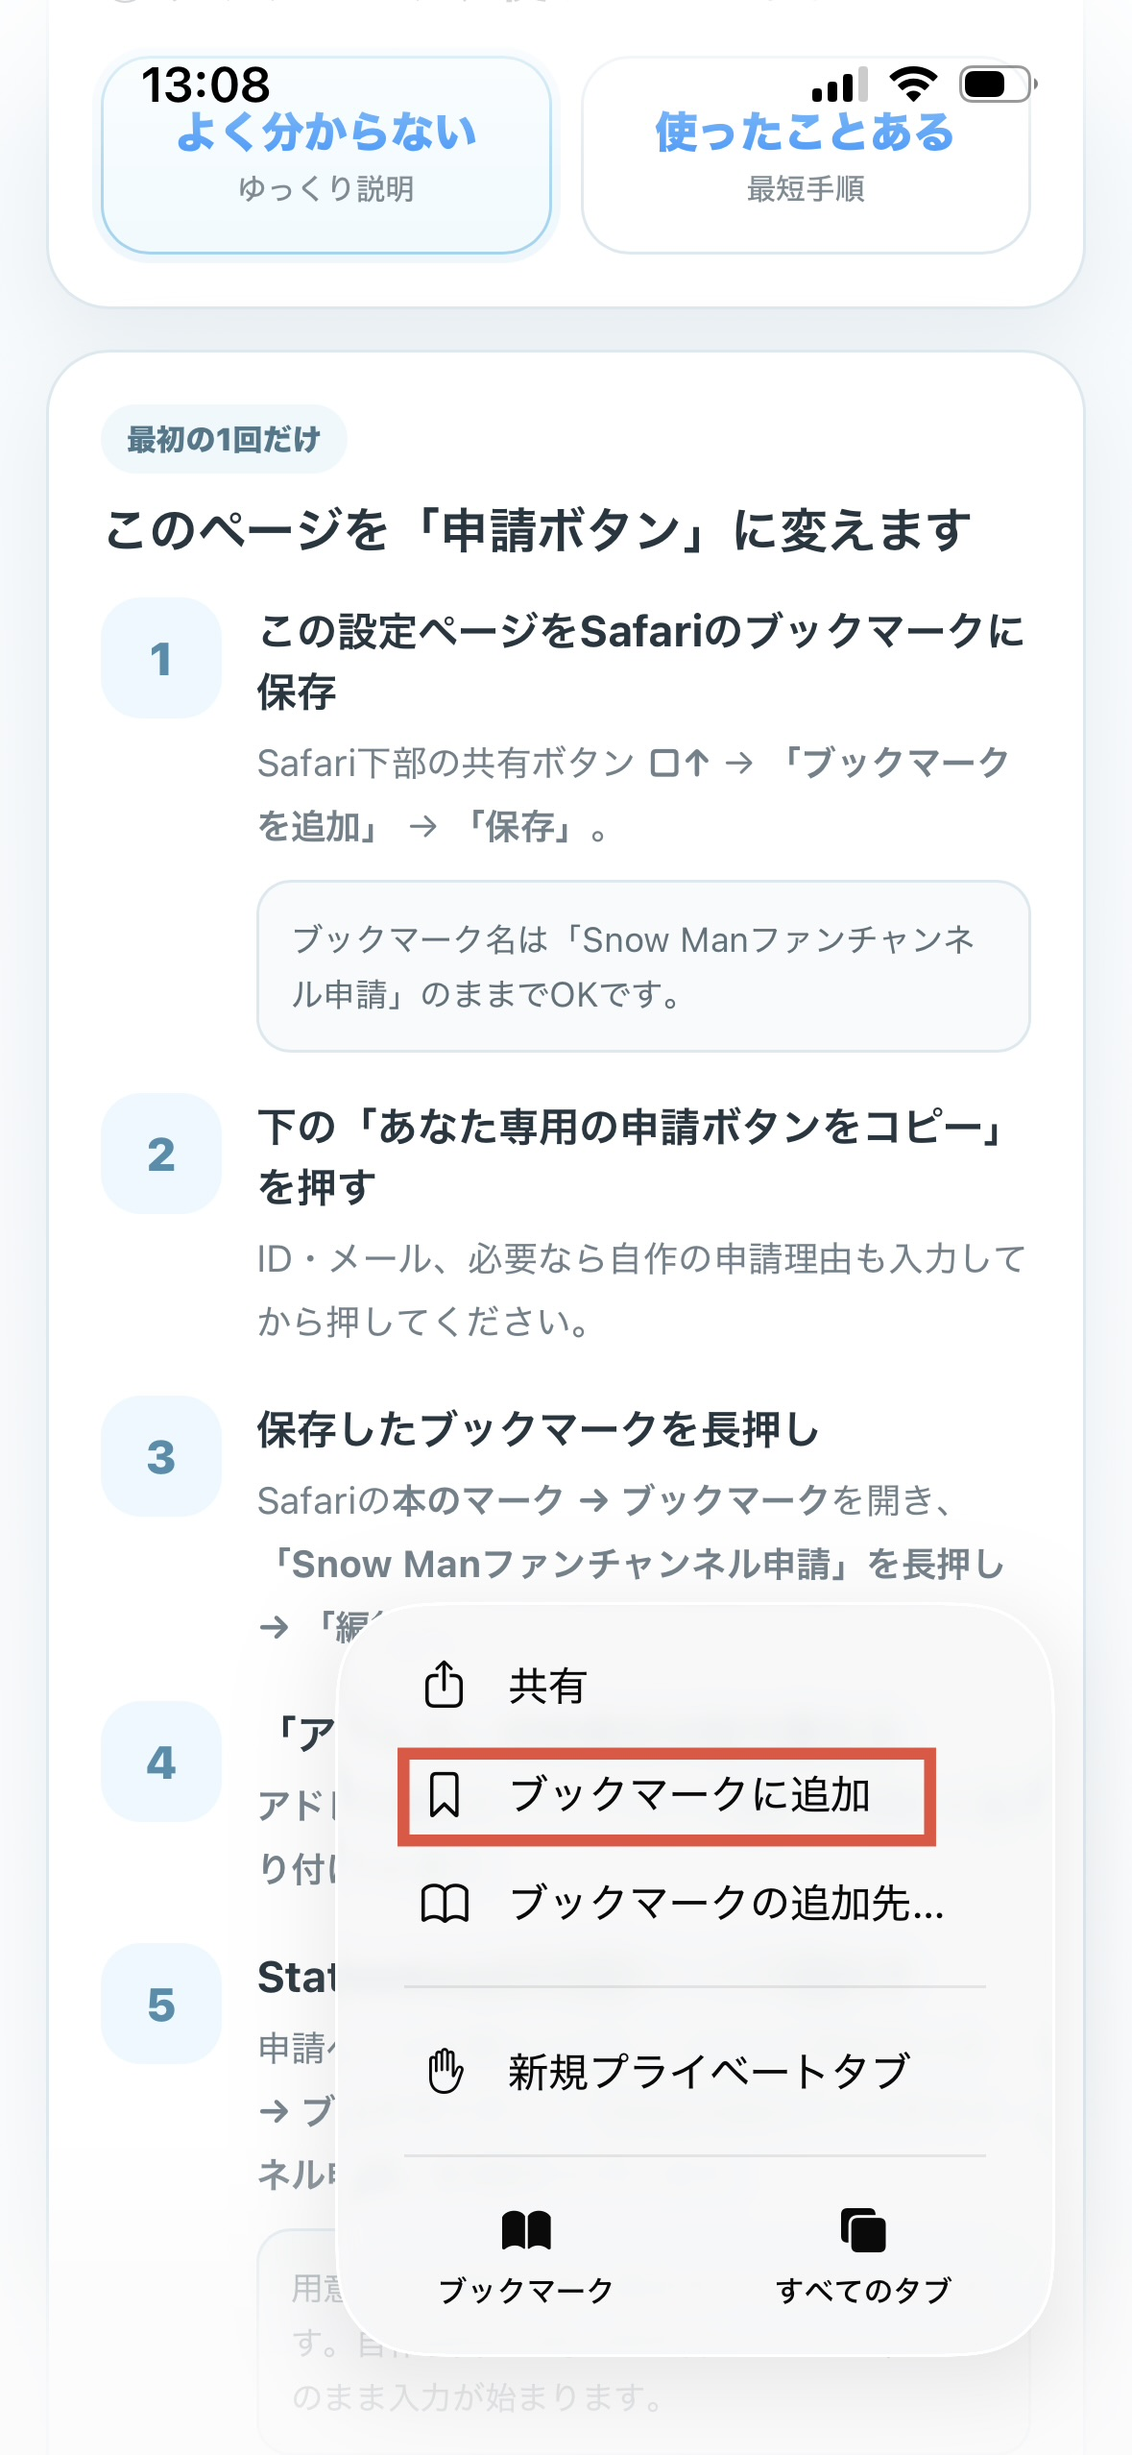
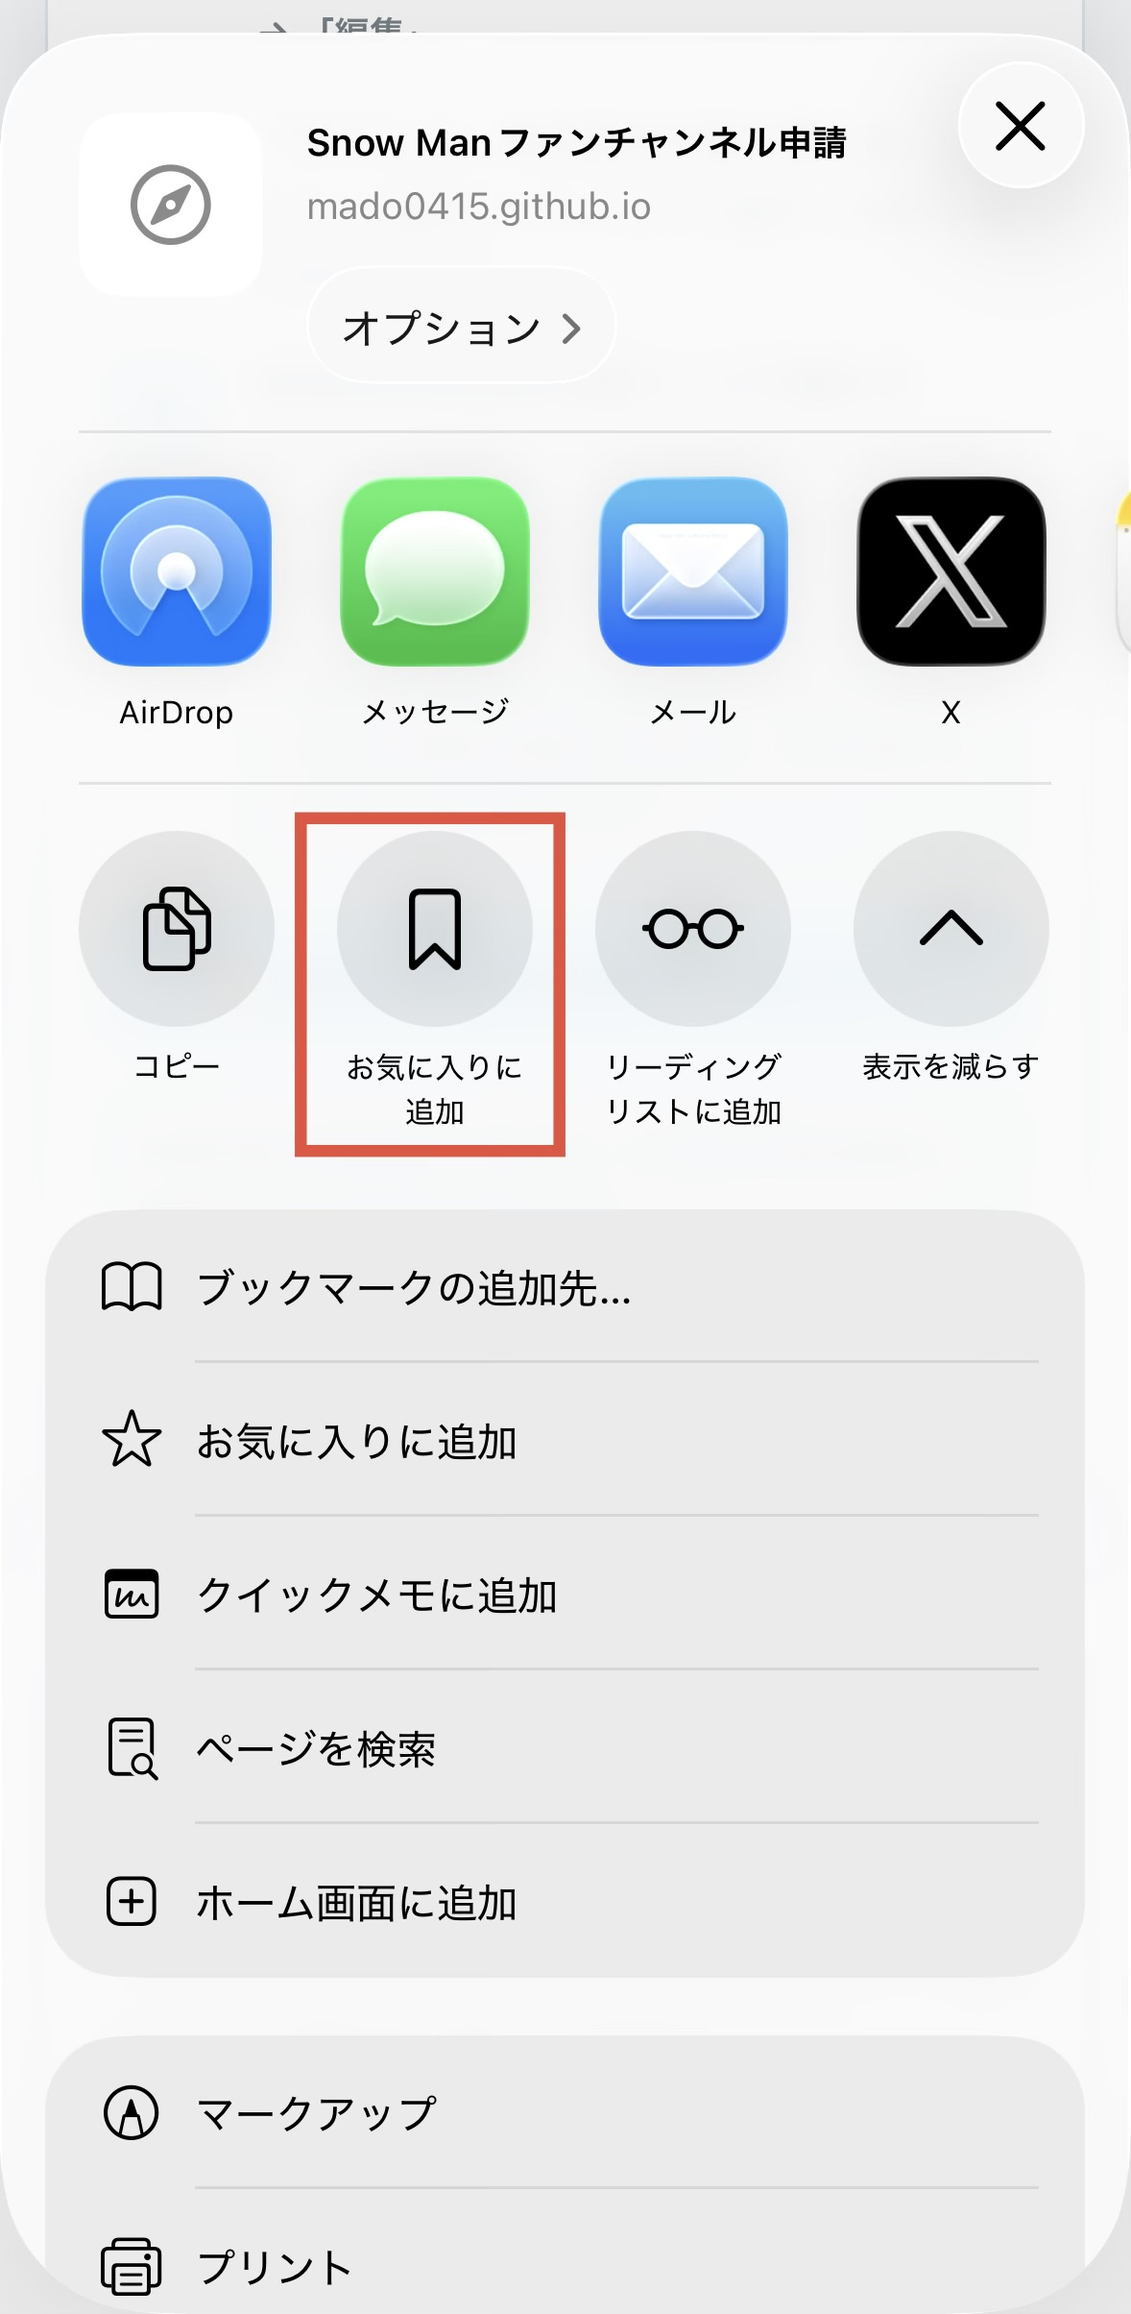
Add files via upload

diff --git a/fan-channel-setup.html b/fan-channel-setup.html
@@ -35,9 +35,14 @@ details{margin-top:10px;border:1px solid var(--line);border-radius:14px;backgrou
 <section class="card"><h2>③ ブックマーク、使ったことある？</h2><div class="modegrid"><button class="mode active" data-mode="easy"><strong>よく分からない</strong><span>ゆっくり説明</span></button><button class="mode" data-mode="fast"><strong>使ったことある</strong><span>最短手順</span></button></div></section>
 <section class="card"><div class="pill">最初の1回だけ</div><h2>このページを「申請ボタン」に変えます</h2>
 <div id="iphoneEasy"><div class="steps">
-<div class="step"><div class="num">1</div><div><h3>この設定ページをSafariのブックマークに保存</h3><p>Safari下部の共有ボタン <strong>□↑</strong> → <strong>「ブックマークに追加」</strong> → <strong>「保存」</strong>。</p>
+<div class="step"><div class="num">1</div><div>
+<h3>この設定ページをSafariのブックマークに保存</h3>
+<p>Safari下部の<strong>共有ボタン □↑</strong>をタップします。</p>
+<img class="helpShot narrow" src="iphone-step1-share.jpeg" alt="Safariの共有ボタンを開く画面">
+<p style="margin-top:10px">共有メニューが開いたら、<strong>「ブックマークに追加」</strong>をタップ → <strong>「保存」</strong>。</p>
 <img class="helpShot narrow" src="iphone-step1-add-bookmark.jpeg" alt="Safariの共有メニューでブックマークに追加を選ぶ画面">
-<div class="mini">ブックマーク名は「Snow Manファンチャンネル申請」のままでOKです。</div></div></div>
+<div class="mini">ブックマーク名は「Snow Manファンチャンネル申請」のままでOKです。</div>
+</div></div></div>
 <div class="step"><div class="num">2</div><div><h3>下の「あなた専用の申請ボタンをコピー」を押す</h3><p>ID・メール、必要なら自作の申請理由も入力してから押してください。</p></div></div>
 <div class="step"><div class="num">3</div><div><h3>保存したブックマークを長押し</h3><p>Safariの<strong>本のマーク → ブックマーク</strong>を開き、<strong>「Snow Manファンチャンネル申請」を長押し → 「編集」</strong>。</p>
 <img class="helpShot narrow" src="iphone-step3-longpress-edit.jpeg" alt="保存したブックマークを長押しして編集を選ぶ画面">
@@ -56,7 +61,7 @@ details{margin-top:10px;border:1px solid var(--line);border-radius:14px;backgrou
 <img class="helpShot narrow" src="iphone-step5-stationhead-bookmark.jpeg" alt="Stationhead申請ページでSafariのブックマークを開く画面">
 <p style="margin-top:10px"><strong>「Snow Manファンチャンネル申請」</strong>を1回タップします。</p>
 <img class="helpShot compact" src="iphone-step5-bookmark-list.jpeg" alt="Snow Manファンチャンネル申請のブックマーク">
-<div class="mini">用意された理由を使う場合は3つのボタンが出ます。自作理由を登録した場合は、その文章でそのまま入力が始まります。</div>
+<div class="mini">用意された理由を使う場合は3つのボタンが出ます。理由を選んだあとはStationを1局ずつ確認しながら追加します。「Stationを追加しています」の表示が消えるまで画面を触らずお待ちください。自作理由を登録した場合は、その文章でそのまま入力が始まります。</div>
 <div class="shotGrid">
 <div><img class="helpShot" src="iphone-step5-reason-picker.png" alt="申請理由を3つから選ぶ画面"><div class="shotCaption">例文を使う場合は、申請時に1つ選びます。</div></div>
 <div><img class="helpShot" src="iphone-step5-complete.jpeg" alt="入力完了メッセージ"><div class="shotCaption">この画面が出たら、内容を確認してSubmitします。</div></div>
@@ -68,7 +73,7 @@ details{margin-top:10px;border:1px solid var(--line);border-radius:14px;backgrou
 <div class="step"><div class="num">2</div><div><h3>申請ボタンをコピー</h3><p>ID・メール、必要なら自作理由も入力してから下のボタンを押します。</p></div></div>
 <div class="step"><div class="num">3</div><div><h3>保存したブックマークを編集</h3><p>Chromeの<strong>︙ → ブックマーク</strong>から「Snow Manファンチャンネル申請」の編集画面を開きます。</p></div></div>
 <div class="step"><div class="num">4</div><div><h3>URL欄を貼り替える</h3><p><strong>URL欄をすべて選択 → 削除 → 貼り付け → 保存</strong>。</p></div></div>
-<div class="step"><div class="num">5</div><div><h3>申請ページで動かす</h3><p>Stationheadの申請ページを開いたまま、Chromeの<strong>アドレスバーに「Snow Manファンチャンネル申請」と入力</strong>し、候補のブックマークをタップします。</p><div class="mini">ホスト一覧は1局ずつ追加するため、完了メッセージが出るまで数秒そのまま待ってください。</div></div></div>
+<div class="step"><div class="num">5</div><div><h3>申請ページで動かす</h3><p>Stationheadの申請ページを開いたまま、Chromeの<strong>アドレスバーに「Snow Manファンチャンネル申請」と入力</strong>し、候補のブックマークをタップします。</p><div class="mini">Stationは1局ずつ追加できたことを確認しながら進みます。「Stationを追加しています」の表示が消えるまで画面を触らずお待ちください。</div></div></div>
 </div></div>
 <div id="fastGuide" class="hidden"><div class="steps">
 <div class="step"><div class="num">1</div><div><h3>この設定ページをブックマーク</h3><p>名前はそのままでOK。</p></div></div>
@@ -83,7 +88,7 @@ details{margin-top:10px;border:1px solid var(--line);border-radius:14px;backgrou
 <p class="footer">非公式の申請補助ページです。Stationheadやブラウザの仕様変更により動かなくなる場合があります。</p></main>
 <div id="toast" class="toast"></div>
 <script>
-const TEMPLATE="javascript:(()=>{const ID=__ID__,MAIL=__EMAIL__,CUSTOM=__CUSTOM__,R=[['日本での大きなファンダム','Snow Man has a large and highly engaged fanbase in Japan, with an active presence across music, television, films, and other entertainment. We believe there is strong demand for a dedicated fan channel where fans can come together to support their music on Stationhead.'],['Stationheadを新しいファンへ','A dedicated Snow Man fan channel could help introduce Stationhead to many Japanese fans who are not yet familiar with the platform. It would provide an easy and welcoming way for them to discover Stationhead and participate in streaming activities together.'],['海外ファンとの交流','Snow Man has fans not only in Japan but also around the world. A dedicated fan channel would create a welcoming space where Japanese and international fans can connect, enjoy Snow Man’s music together, and support the group through Stationhead.']];const q=s=>[...document.querySelectorAll('input,textarea')].find(e=>(e.placeholder||'').toLowerCase().includes(s));const set=(e,v)=>{if(!e)return;const p=e.tagName==='TEXTAREA'?HTMLTextAreaElement.prototype:HTMLInputElement.prototype,d=Object.getOwnPropertyDescriptor(p,'value');d&&d.set?d.set.call(e,v):e.value=v;['input','change','blur'].forEach(x=>e.dispatchEvent(new Event(x,{bubbles:true})))};const fill=async why=>{set(q('stationhead'),ID);set(q('army'),'Snow Man');set(q('you@example.com'),MAIL);set(q('rihanna'),'Snow Man');const ta=document.querySelector('textarea');if(ta)set(ta,why);set(q('https://')||q('playlist'),'https://open.spotify.com/playlist/4VjiB9FNBsKyd5PP6ybea6?si=d57562db467741b3');for(const s of ['snowmanfan9sima','snowmandream','chochan6969','whatsolike','sn9support','snowman9flash','snowind']){let st=q('serena');if(!st){await new Promise(r=>setTimeout(r,700));st=q('serena')}if(!st)continue;set(st,s);await new Promise(r=>setTimeout(r,650));st=q('serena')||st;st.dispatchEvent(new KeyboardEvent('keydown',{key:'Enter',code:'Enter',bubbles:true}));st.dispatchEvent(new KeyboardEvent('keyup',{key:'Enter',code:'Enter',bubbles:true}));await new Promise(r=>setTimeout(r,850))}alert('入力できる項目を埋めました。内容を確認してSubmitしてください！')};if(CUSTOM){fill(CUSTOM);return}document.getElementById('smfc-helper')?.remove();const o=document.createElement('div');o.id='smfc-helper';o.style='position:fixed;inset:0;z-index:2147483647;background:#0009;display:grid;place-items:center;padding:18px';const b=document.createElement('div');b.style='width:min(420px,100%);background:white;color:#22313a;border-radius:20px;padding:18px;font-family:-apple-system,BlinkMacSystemFont,sans-serif';b.innerHTML='<b style=\"font-size:20px\">申請理由を選んでください</b><p style=\"font-size:13px;color:#667780\">使いたいものを1つタップしてください。</p>';R.forEach((r,i)=>{const x=document.createElement('button');x.textContent=(i+1)+'　'+r[0];x.style='display:block;width:100%;margin:8px 0;padding:13px;border:1px solid #cfe5ef;border-radius:13px;background:#f5fbff;text-align:left;font-weight:700';x.onclick=()=>{o.remove();fill(r[1])};b.appendChild(x)});const c=document.createElement('button');c.textContent='キャンセル';c.style='width:100%;padding:10px;border:0;background:transparent';c.onclick=()=>o.remove();b.appendChild(c);o.appendChild(b);document.body.appendChild(o)})()";
+const TEMPLATE="javascript:(()=>{const ID=__ID__,MAIL=__EMAIL__,CUSTOM=__CUSTOM__,R=[['日本での大きなファンダム','Snow Man has a large and highly engaged fanbase in Japan, with an active presence across music, television, films, and other entertainment. We believe there is strong demand for a dedicated fan channel where fans can come together to support their music on Stationhead.'],['Stationheadを新しいファンへ','A dedicated Snow Man fan channel could help introduce Stationhead to many Japanese fans who are not yet familiar with the platform. It would provide an easy and welcoming way for them to discover Stationhead and participate in streaming activities together.'],['海外ファンとの交流','Snow Man has fans not only in Japan but also around the world. A dedicated fan channel would create a welcoming space where Japanese and international fans can connect, enjoy Snow Man’s music together, and support the group through Stationhead.']];const q=s=>[...document.querySelectorAll('input,textarea')].find(e=>(e.placeholder||'').toLowerCase().includes(s));const set=(e,v)=>{if(!e)return;const p=e.tagName==='TEXTAREA'?HTMLTextAreaElement.prototype:HTMLInputElement.prototype,d=Object.getOwnPropertyDescriptor(p,'value');d&&d.set?d.set.call(e,v):e.value=v;['input','change','blur'].forEach(x=>e.dispatchEvent(new Event(x,{bubbles:true})))};const fill=async why=>{set(q('stationhead'),ID);set(q('army'),'Snow Man');set(q('you@example.com'),MAIL);set(q('rihanna'),'Snow Man');const ta=document.querySelector('textarea');if(ta)set(ta,why);set(q('https://')||q('playlist'),'https://open.spotify.com/playlist/4VjiB9FNBsKyd5PP6ybea6?si=d57562db467741b3');const hosts=['snowmanfan9sima','snowmandream','chochan6969','whatsolike','sn9support','snowman9flash','snowind'];const wait=ms=>new Promise(r=>setTimeout(r,ms));const progress=document.createElement('div');progress.id='smfc-progress';progress.style='position:fixed;inset:0;z-index:2147483646;background:rgba(0,0,0,.68);display:flex;align-items:center;justify-content:center;padding:20px;font-family:-apple-system,BlinkMacSystemFont,sans-serif';const pc=document.createElement('div');pc.style='width:min(420px,100%);background:#fff;color:#22313a;border-radius:20px;padding:20px;text-align:center;box-shadow:0 18px 50px rgba(0,0,0,.28)';const pt=document.createElement('div');pt.style='font-size:20px;font-weight:800;margin-bottom:8px';const ps=document.createElement('div');ps.style='font-size:13px;color:#6f7d86;line-height:1.6';pc.appendChild(pt);pc.appendChild(ps);progress.appendChild(pc);document.body.appendChild(progress);const status=txt=>{pt.textContent='Stationを追加しています';ps.textContent=txt+' / 完了するまで画面を触らずお待ちください'};const isAdded=name=>{const t=(document.body.innerText||'').toLowerCase();return t.includes(name.toLowerCase())};for(let i=0;i<hosts.length;i++){const s=hosts[i];status((i+1)+' / '+hosts.length+'　'+s);let done=false;for(let attempt=0;attempt<3&&!done;attempt++){let st=q('serena');if(!st){await wait(700);st=q('serena')}if(!st)break;set(st,s);await wait(700);st=q('serena')||st;st.dispatchEvent(new KeyboardEvent('keydown',{key:'Enter',code:'Enter',bubbles:true}));st.dispatchEvent(new KeyboardEvent('keyup',{key:'Enter',code:'Enter',bubbles:true}));for(let c=0;c<6;c++){await wait(350);if(isAdded(s)){done=true;break}}}if(!done){progress.remove();alert('Station「'+s+'」の追加を確認できませんでした。画面を確認して、このStation以降を手動で追加してください。');return}}progress.remove();alert('入力できる項目を埋めました。Stationの追加も確認済みです。内容を確認してSubmitしてください！')};if(CUSTOM){fill(CUSTOM);return}document.getElementById('smfc-helper')?.remove();const o=document.createElement('div');o.id='smfc-helper';o.style='position:fixed;inset:0;z-index:2147483647;background:#0009;display:grid;place-items:center;padding:18px';const b=document.createElement('div');b.style='width:min(420px,100%);background:white;color:#22313a;border-radius:20px;padding:18px;font-family:-apple-system,BlinkMacSystemFont,sans-serif';b.innerHTML='<b style=\"font-size:20px\">申請理由を選んでください</b><p style=\"font-size:13px;color:#667780\">使いたいものを1つタップしてください。</p>';R.forEach((r,i)=>{const x=document.createElement('button');x.textContent=(i+1)+'　'+r[0];x.style='display:block;width:100%;margin:8px 0;padding:13px;border:1px solid #cfe5ef;border-radius:13px;background:#f5fbff;text-align:left;font-weight:700';x.onclick=()=>{o.remove();fill(r[1])};b.appendChild(x)});const c=document.createElement('button');c.textContent='キャンセル';c.style='width:100%;padding:10px;border:0;background:transparent';c.onclick=()=>o.remove();b.appendChild(c);o.appendChild(b);document.body.appendChild(o)})()";
 let device='iphone',mode='easy';
 function showToast(m){const t=document.getElementById('toast');t.textContent=m;t.classList.add('show');clearTimeout(showToast.t);showToast.t=setTimeout(()=>t.classList.remove('show'),1400)}
 function build(){const id=document.getElementById('stationId').value.trim().replace(/^@/,'');const mail=document.getElementById('email').value.trim();const custom=document.getElementById('customReason').value.trim();if(!id){showToast('Stationhead IDを入力してください');return null}if(!mail||!mail.includes('@')){showToast('メールアドレスを確認してください');return null}return TEMPLATE.replace('__ID__',JSON.stringify(id)).replace('__EMAIL__',JSON.stringify(mail)).replace('__CUSTOM__',JSON.stringify(custom))}

diff --git a/fan-channel-guide.html b/fan-channel-guide.html
@@ -26,11 +26,14 @@ details{margin-top:10px;border:1px solid var(--line);border-radius:14px;backgrou
 <section class="card"><h2>設定の流れ</h2><div class="steps">
 <div class="step"><div class="num">1</div><div><h3>設定ページを開く</h3><p>Stationhead ID・メールアドレスを入力します。</p></div></div>
 <div class="step"><div class="num">2</div><div><h3>申請理由を確認</h3><p>登録ページでは申請理由の例文を確認できます。例文を使う場合は、実際の申請時に3つから選びます。自分で書いた文章を使いたい場合だけ、登録ページであらかじめ入力します。</p></div></div>
-<div class="step"><div class="num">3</div><div><h3>設定ページをブックマークして編集</h3><p>共有メニューからブックマークに保存し、保存した「Snow Manファンチャンネル申請」を長押し → 編集。アドレス欄をコピーした申請ボタンに貼り替えます。</p>
+<div class="step"><div class="num">3</div><div>
+<h3>設定ページをブックマークして編集</h3>
+<p>まずSafari下部の<strong>共有ボタン □↑</strong>をタップし、共有メニューから<strong>「ブックマークに追加」</strong>を選んで保存します。そのあと、保存した「Snow Manファンチャンネル申請」を長押し → 編集。アドレス欄をコピーした申請ボタンに貼り替えます。</p>
 <div class="shotGrid">
-<div><img class="helpShot" src="iphone-step1-add-bookmark.jpeg" alt="Safariでブックマークに追加する画面"></div>
-<div><img class="helpShot" src="iphone-step3-longpress-edit.jpeg" alt="長押しして編集する画面"></div>
+<div><img class="helpShot" src="iphone-step1-share.jpeg" alt="Safariの共有ボタンを開く画面"></div>
+<div><img class="helpShot" src="iphone-step1-add-bookmark.jpeg" alt="ブックマークに追加を選ぶ画面"></div>
 </div>
+<img class="helpShot narrow" src="iphone-step3-longpress-edit.jpeg" alt="長押しして編集する画面">
 </div></div>
 <div class="step"><div class="num">4</div><div><h3>Stationheadの申請ページで実行</h3><p>申請ページを開いたまま、Safariのブックマークから「Snow Manファンチャンネル申請」をタップします。</p>
 <div class="shotGrid">
